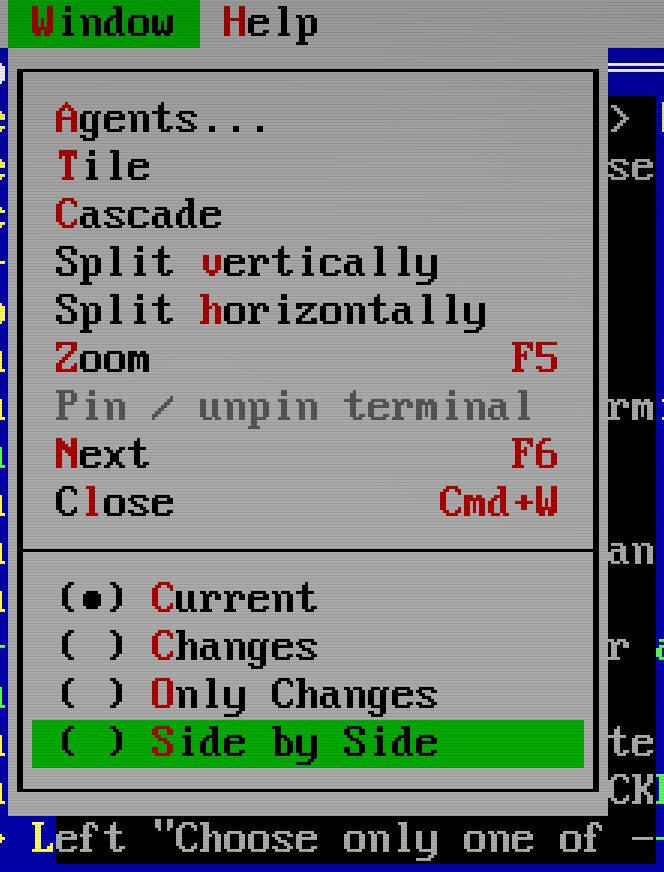
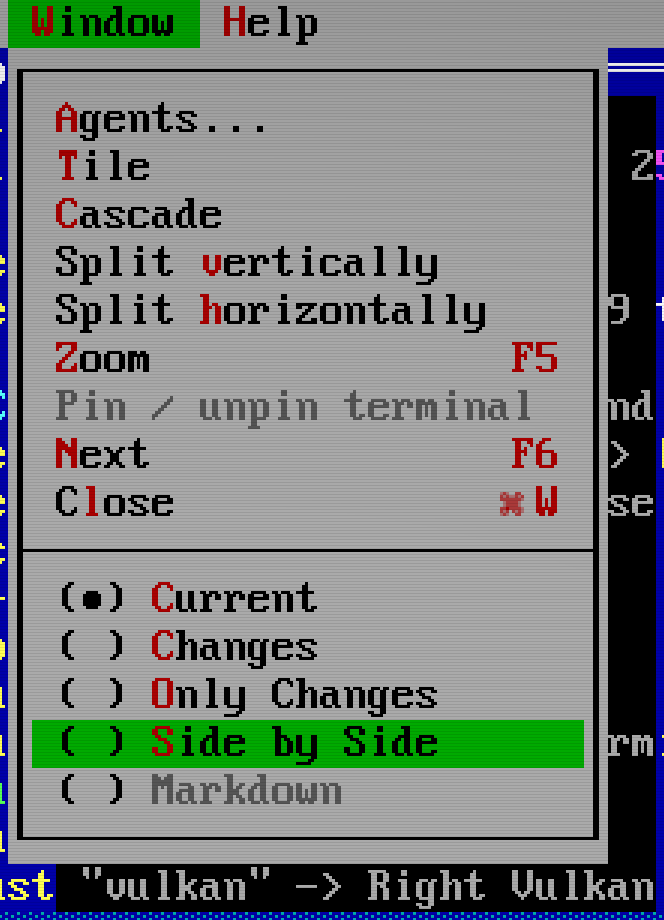
Document Markdown buffer views with native captures

diff --git a/docs/editing.md b/docs/editing.md
@@ -67,7 +67,7 @@ Linked Markdown and transferred images/PDFs are limited to 8 MiB each.
 ## Buffer views
 
 The section at the bottom of **Window** changes how the selected source window
-shows unsaved edits:
+displays its contents:
 
 - **Current** shows the editable file with deleted text hidden.
 - **Changes** includes deleted originals in red and additions in green.
@@ -76,6 +76,8 @@ shows unsaved edits:
 - **Side by Side** aligns saved text on the left and current text on the right.
   Red and green blank regions show where the other side has no corresponding
   line. Drag the center divider to give either side more room.
+- **Markdown** renders headings, lists, tables, links and code blocks in `.md`
+  and `.markdown` files. It shows the current buffer, including unsaved edits.
 
 Click a view name to change this window. Click its radio control, or highlight
 the row and press Space, to choose the default for newly opened buffers. The
@@ -91,6 +93,22 @@ stays in current text; Cut removes only selected live text and does not delete
 lines hidden by Only Changes. Right-click a changed region and choose
 **Revert this change** to restore its originals and remove its additions in one
 undoable operation. Saving establishes a new baseline and clears the change view.
+
+### Reading Markdown
+
+Open a Markdown file and choose **Window > Markdown**. Select and copy the
+rendered text, or follow links relative to the file's location. **Options >
+Preferences > Wide section titles** applies here as it does in Help. In
+**Current**, the file keeps its Markdown syntax and normal source highlighting.
+
+The Markdown view is read-only. Switch back to **Current** to edit; your source
+cursor, selection and scroll position are preserved. You can also split the
+window, keeping Current in one half and Markdown in the other. Edits refresh
+the preview in the background. Both windows share the same file and undo history.
+Resizing or refreshing the preview clears its rendered selection; it does not
+change your source selection.
+
+[![The editing guide open as Markdown source and a rendered view, with wide section titles.](site/screenshots/markdown-view.png)](site/screenshots/markdown-view.png)
 
 ## Text and selection
 

diff --git a/docs/session-tools.md b/docs/session-tools.md
@@ -16,7 +16,9 @@ category. Both are also available through `docs_read` in the `editor` corpus.
 
 ## Files, windows and history
 
-`list_windows`, `list_buffers`, `read_buffer` and `read_selection` expose live contents, paths, dirty flags and revisions. `workspace_project` identifies the project root and package file. `workspace_search` searches disk files and substitutes unsaved buffer contents; `trackedOnly` limits it to Git-tracked files. `workspace_git` reports disk changes separately from unsaved buffers.
+`list_windows`, `list_buffers`, `read_buffer` and `read_selection` expose live contents, paths, dirty flags and revisions. In a Markdown view, `read_selection` returns rendered text and labels its offsets
+`rendered-markdown`; `read_buffer` still returns the source. Use source offsets
+for edits. `workspace_project` identifies the project root and package file. `workspace_search` searches disk files and substitutes unsaved buffer contents; `trackedOnly` limits it to Git-tracked files. `workspace_git` reports disk changes separately from unsaved buffers.
 
 `editor_file` opens, saves or closes files. Save and close require the current revision. Closing a dirty buffer requires an explicit save or discard choice. `buffer_apply_diff` checks a unified diff against that revision and applies it as one undoable edit, without saving. `workspace_files` creates files/directories, renames paths, or deletes files and empty directories inside the project.
 

diff --git a/docs/configuration.md b/docs/configuration.md
@@ -38,8 +38,10 @@ windows and Mac browsers use symbol labels automatically.
 
 Command-line options override environment variables, which override project defaults, which override global defaults. For example, `THC_EDIT_BACKEND=web` overrides `backend = "metal"`, and `--terminal` overrides both. `--mode` selects its usual dimensions unless `--size` is also supplied. `--no-crt`, `--classic-icons`, `--standard-keys`, `--no-blink-cursor` and `--no-pixelate-unicode` override enabled defaults.
 
-`bufferView` accepts `current`, `changes`, `only-changes`, or `side-by-side`.
-The radio controls in the Window menu save this default for newly opened buffers.
+`bufferView` accepts `current`, `changes`, `only-changes`, `side-by-side`, or
+`markdown`. Markdown renders `.md` and `.markdown` files; other files open in
+Current when this is the default. The radio controls in the Window menu save
+this default for newly opened buffers.
 
 Startup defaults apply when a session is created. Resuming keeps that session's editing state; the frontend can still use your chosen backend and scale. To change a running session, use **Options > Preferences**. An agent can read and update non-agent settings through `editor_settings`; its `defaults` object updates the startup section without changing the current session.
 

diff --git a/docs/agent-tools.md b/docs/agent-tools.md
@@ -56,7 +56,7 @@ reads use a bounded declared corpus, not automatic classification of every word.
 | `list_buffers` | R | `{}` | Buffer IDs, paths, revisions, dirty state; includes untitled buffers |
 | `list_windows` | R | `{}` | Window IDs, titles, buffer IDs, rectangles, active window and panels |
 | `read_buffer` | R | `bufferId?`, `startLine?`, `lineCount?`, `byteOffset?` | Live text; 200 lines default, 1000 maximum. Binary: up to 4096 hex bytes. Defaults to active buffer |
-| `read_selection` | R | `windowId?` | Selected content and cursor offsets; defaults to active window |
+| `read_selection` | R | `windowId?` | Selected content and cursor offsets; `coordinateSpace` is `source` or `rendered-markdown`. Defaults to active window |
 | `workspace_project` | R | `{}` | Project root, Cabal package file, active source, unsaved buffers, existing Cabal component/dependency graph |
 | `workspace_search` | R | `query`, `trackedOnly?`, `offset?`, `limit?` | Literal line matches with live-buffer substitution; tracked-only or ignore-respecting workspace search |
 | `editor_file` | W | `action`, `bufferId?`, `windowId?`, `path?`, `revision?`, `dirtyAction?` | `open`, `save`, `close`; save/close require current revision. Dirty close requires `save` or `discard` |

diff --git a/docs/architecture.md b/docs/architecture.md
@@ -109,6 +109,13 @@ linear light and applies Floyd–Steinberg error diffusion to four coverage
 levels before enlargement. The browser's pixelated fallback does not use that
 native filter. Bundled bitmap glyphs retain nearest-neighbor scaling.
 
+A Markdown buffer view keeps its original source document and undo history.
+`TextPresentation` captures immutable source content, revision, width and title
+preferences, then parses and lays it out on its existing background worker.
+Adoption checks those small keys; rendering and input consume the prepared rows.
+Each window holds separate rendered selection and scrolling, while Current keeps
+its source interaction. A pending or failed preview stays read-only.
+
 Markdown links retain their targets through wrapping, tables and chat-bubble
 layout. That layout records character spans once; hit testing uses the buffer's
 line index. A bounded session worker loads and lays out linked documents outside

diff --git a/README.md b/README.md
@@ -49,7 +49,8 @@ bar. Mac function keys may need Fn/Globe.
 The Files pane follows the selected directory. Drag a window by its title,
 resize it from the corner, or use **Window > Tile** and **Window > Cascade**.
 **Window > Split vertically** and **Split horizontally** open another view of
-the same buffer, including its undo history.
+the same buffer, including its undo history. **Window > Markdown** renders a
+Markdown file in place; keep another split in **Current** to edit while you read.
 
 These are the default source-editor bindings. The Mac column describes the
 native window and browser: ⌃ Control, ⌥ Option, ⇧ Shift and ⌘ Command, in that order
